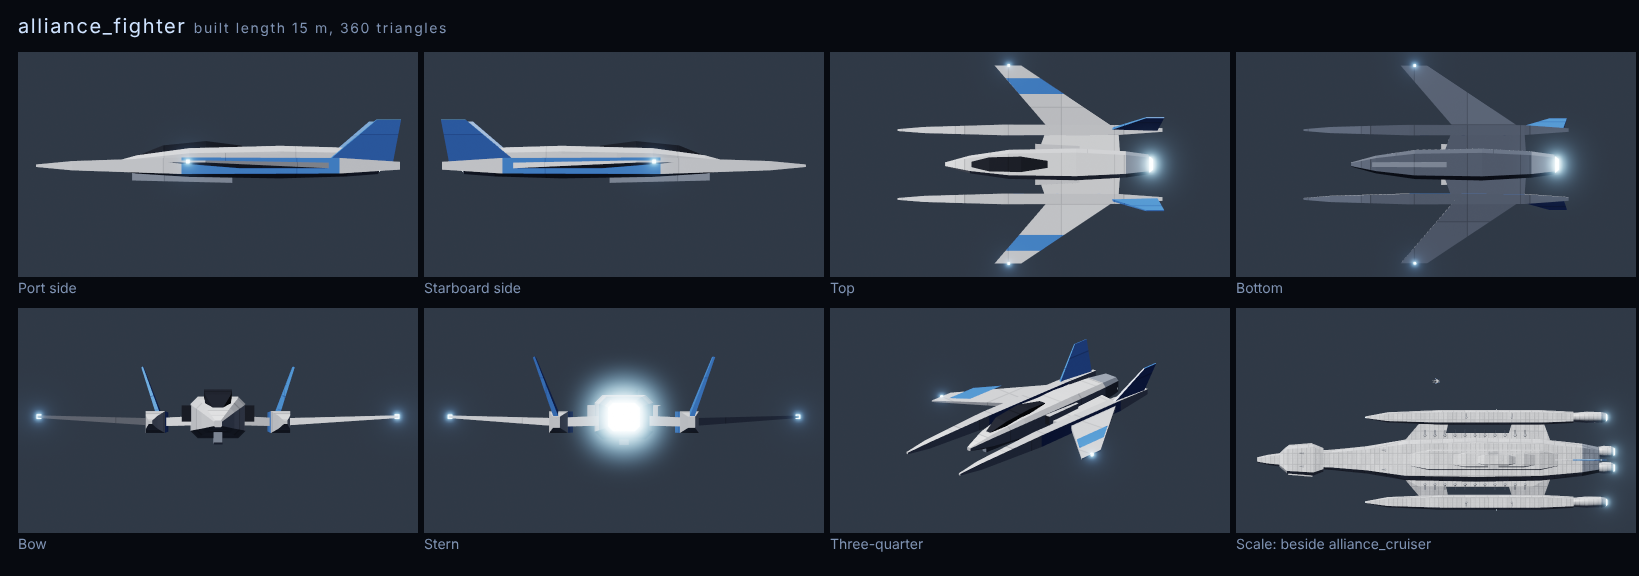
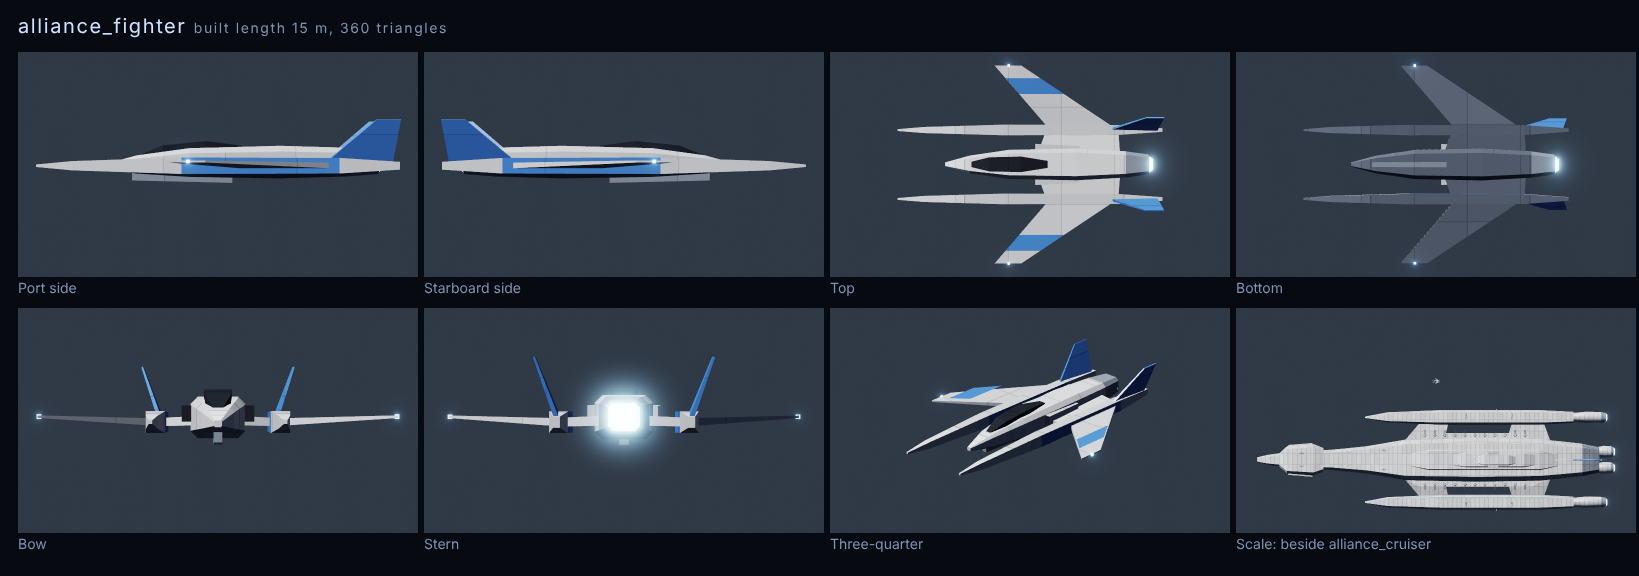
Alliance hulls merged; all eight M1 hulls registered with sheets
- Register Alliance fighter, dreadnought and carrier alongside the Reaper hulls
- Probe cruiser class now matches its 707 m hull
- Lower engine exhaust brightness so stern views show separate engines
- Regenerate every reference sheet; update design bible and checkpoint

Claude-Session: https://claude.ai/code/session_011WPeZ6Bc2D7UCoSwkMfGXb

diff --git a/docs/CHECKPOINT.md b/docs/CHECKPOINT.md
@@ -17,10 +17,14 @@ Newest state only. Older entries move to docs/history/. Limit 150 lines (CI enfo
   engine flares, star field, HDR, bloom), fleet overview and ship-follow cameras, benchmark,
   hull viewer and reference-sheet renderer, CI and deployment.
 - M1 so far: lore bible (Alliance, Reapers; from search snippets), design bible, combat model
-  document (docs/COMBAT_MODEL.md), simulation table types (packages/sim/src/tables.ts).
-  Two hull builders were started in separate worktrees (Alliance: fighter, frigate, cruiser
-  at 707 m, dreadnought, carrier; Reapers: Oculus, destroyer, Sovereign-class); their
-  branches are local and not yet reviewed or merged.
+  document (docs/COMBAT_MODEL.md), simulation table types (packages/sim/src/tables.ts), and
+  **all eight M1 hulls**, built in code with reference sheets in docs/design/sheets/:
+  Alliance fighter 15 m, frigate 170 m, cruiser 707 m, dreadnought 888 m, carrier 900 m;
+  Reaper Oculus 16 m, destroyer 160 m, Sovereign-class 2,000 m. View any of them at
+  `?hull=<id>&view=quarter` (ids as the sheet file names). They are not yet used in a battle.
+- Hull shortcomings I can see on the sheets: Sovereign-class arms are thin for a 2 km ship;
+  the Oculus sphere is faceted; the cruiser's outriggers are long needles; the carrier's
+  hangar tunnel is see-through at its centre.
 - **Where it stopped:** while writing the M1 simulation (damage layers, mounts, fire control,
   battlegroup roles, orders, events) the session's safety filter interrupted the response
   twice. The half-written file was discarded; `packages/sim/src/world.ts` is the M0 kernel.
@@ -35,7 +39,7 @@ Newest state only. Older entries move to docs/history/. Limit 150 lines (CI enfo
 | Determinism, in-game worker vs headless | identical for 120 ticks, 600 ships, seed 11 | browser test |
 | Real input (right-drag, wheel, middle-drag, keys, menu) | reaches the battle through the interface layer | browser test, real pointer events |
 | Drawn output | not blank, both fleet colours present, framed, no console errors | software rendering |
-| Hull lengths | frigate 170 m, cruiser 520 m, match their definitions | unit test |
+| Hull lengths | all eight hulls build to their catalogue length; none fills over 45 % of its box | unit tests |
 | Frame rate, 4K, Ultra | **not measured** | needs the 5090 |
 | Engagement share, Reaper-killer discipline | not applicable until weapons exist (M1) | |
 
@@ -59,7 +63,7 @@ Each item lists the default already in use; nothing is blocked on an answer.
 
 ## Next
 
-M1, in this order: review and merge the hull branches; catalogue with sourced figures
+M1, in this order: catalogue with sourced figures
 (lengths and gap proposals are in the lore bible, section 5); the simulation described in
 docs/COMBAT_MODEL.md; Earth-orbit battle space; selection and orders; effects; the
 engagement measures; independent review into docs/qa/.
